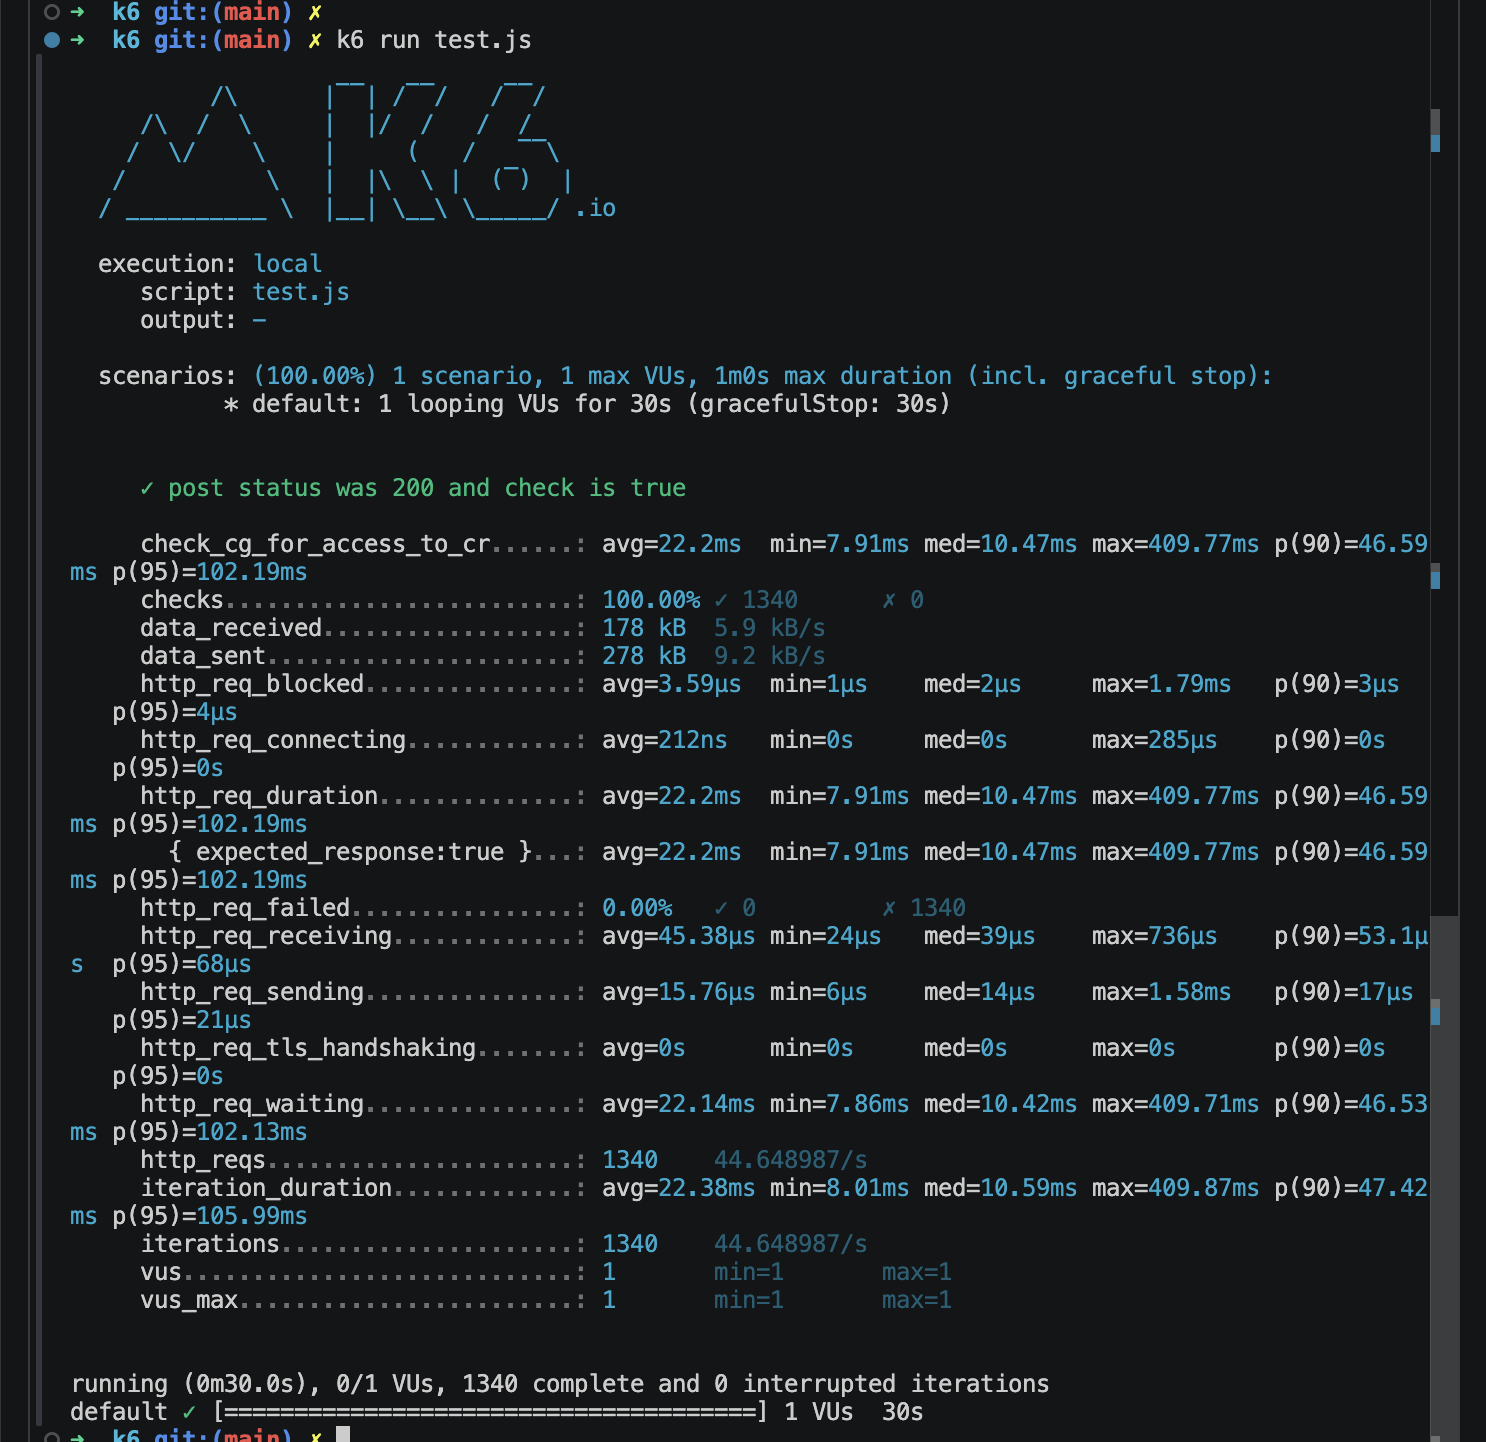
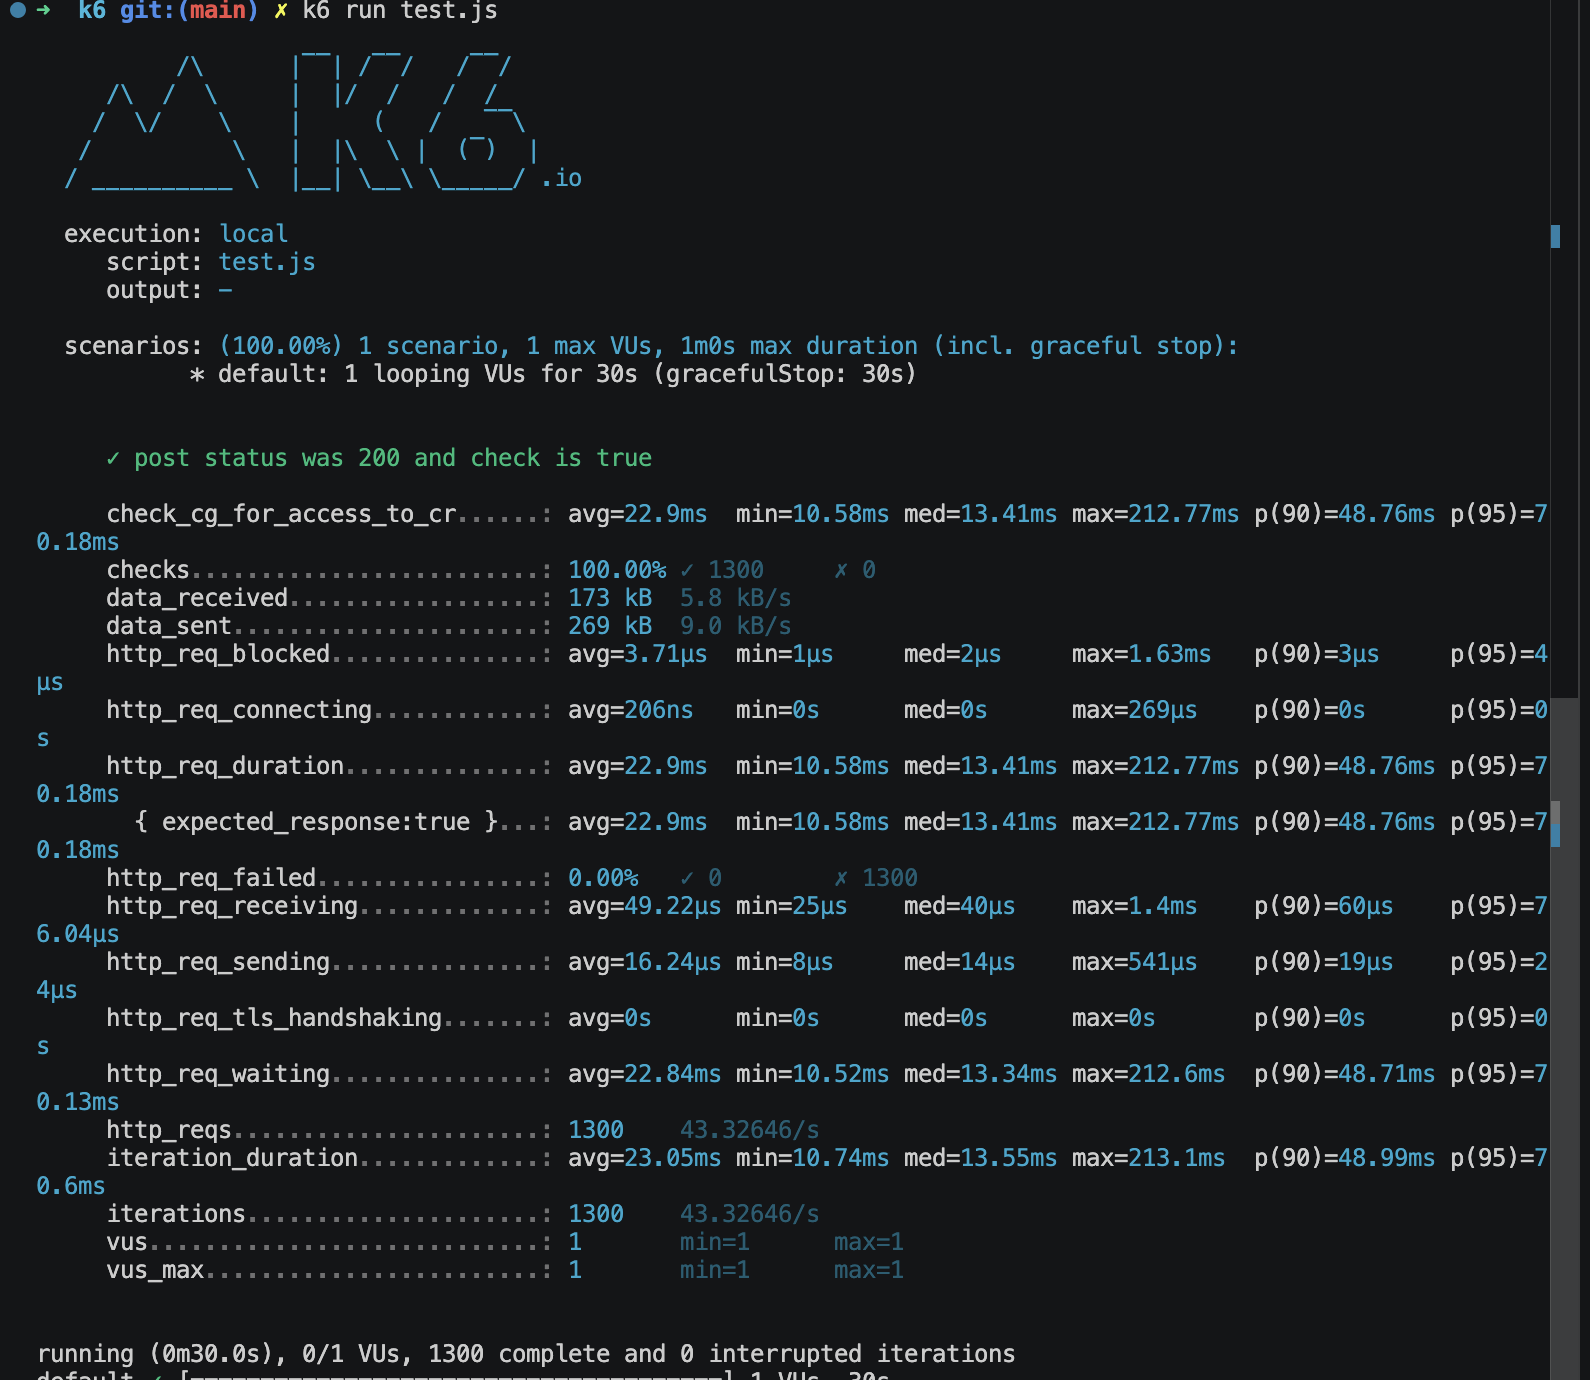
added changes to perf tests

diff --git a/handler/create_k6_testset.go b/handler/create_k6_testset.go
@@ -31,12 +31,13 @@ func CreatePerfTestSetHandler(w http.ResponseWriter, r *http.Request) {
 	for i := 1; i <= NumOfCGs; i++ {
 
 		cg := models.CareGiverModel{
-			ID:               "cg" + strconv.Itoa(i),
-			FirstName:        gofakeit.FirstName(),
-			LastName:         gofakeit.LastName(),
-			Email:            gofakeit.Email(),
-			Phone:            gofakeit.Phone(),
-			CareReceipentIds: make(map[string]bool),
+			ID:                     "cg" + strconv.Itoa(i),
+			FirstName:              gofakeit.FirstName(),
+			LastName:               gofakeit.LastName(),
+			Email:                  gofakeit.Email(),
+			Phone:                  gofakeit.Phone(),
+			CareReceipentIds:       make(map[string]bool),
+			CareReceipentInviteMap: make(map[string]models.InviteStatus),
 		}
 
 		cap1 := models.CapabilityPermissionSet{
@@ -60,6 +61,8 @@ func CreatePerfTestSetHandler(w http.ResponseWriter, r *http.Request) {
 				CareGiverCapabilityPermissionMap: make(map[string]map[string]models.CapabilityPermissionSet),
 			}
 			cg.CareReceipentIds[cr.ID] = true
+			cg.CareReceipentInviteMap[cr.ID] = models.Accepted
+
 			cr.AuthorizedCareGiverIds[cg.ID] = true
 
 			cr.CareGiverCapabilityPermissionMap[cg.ID] = make(map[string]models.CapabilityPermissionSet)

diff --git a/Readme.md b/Readme.md
@@ -112,4 +112,4 @@ curl --location --request POST 'localhost:8888/insert-perf-data'
 Once that is done, running a `check` would give us this:
 ![alt text](k6/k6-1mil-cr-cg.png "Performance Analysis")
 
-As you can see `P50` is around `~10ms`.
+As you can see `P50` is around `~13ms`.
